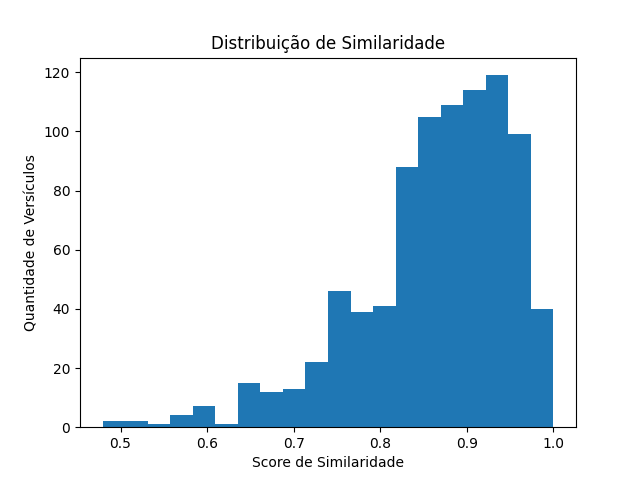
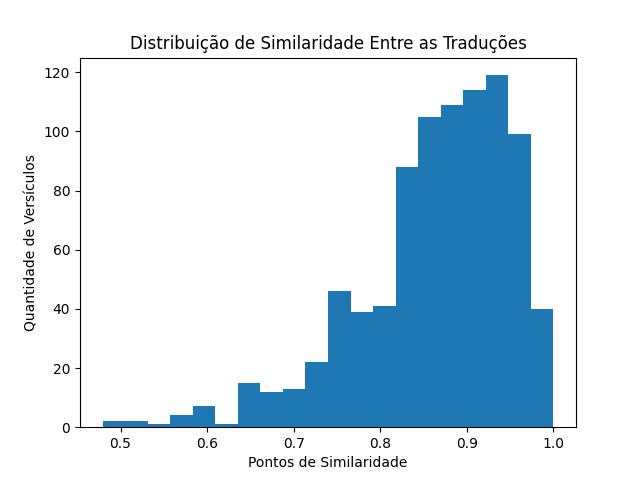
adicionei um gráfico de linhas que analisa a progressão da quantidade média de palavras por versículos em cada capítulo

Changed region(s): [[0.1875, 0.0625, 0.8125, 0.125], [0.375, 0.9375, 0.625, 1.0]]

diff --git a/funcoesGraficos.py b/funcoesGraficos.py
@@ -7,9 +7,54 @@ def criarHistograma(lista):
         sim.append(l["similaridade"])
 
     plt.hist(sim, bins=20)
-    plt.title("Distribuição de Similaridade")
-    plt.xlabel("Score de Similaridade")
+    plt.title("Distribuição de Similaridade Entre as Traduções")
+    plt.xlabel("Pontos de Similaridade")
     plt.ylabel("Quantidade de Versículos")
 
     plt.show()
     plt.savefig("histograma.png")
+
+    return plt
+
+def criarGrafLinhas(livro1, livro2):
+    def calcMediaCap(livro): 
+        medias = []
+        capAtual = livro[0]["capitulo"]
+        soma = 0
+        quantV = 0
+        for v in livro:
+            if capAtual == v["capitulo"]:
+                soma += v["quant_palavras"]
+                quantV += 1
+            else:
+                medias.append(soma / quantV)
+                capAtual = v["capitulo"]
+                soma = v["quant_palavras"] #reinicia pelo primeiro vers
+                quantV = 1
+
+        # adiciona último capítulo
+        medias.append(soma / quantV)
+        return medias
+
+    list1 = calcMediaCap(livro1)
+    list2 = calcMediaCap(livro2)    
+
+    plt.figure(figsize=(14,6))
+
+    lenCapitulos = range(1, len(list1) + 1) #pega a quantidade de capitulos pela tamanho do array
+
+    plt.plot(lenCapitulos, list1, label=livro1[0]["traducao"])
+    plt.plot(lenCapitulos, list2, label=livro2[0]["traducao"])
+
+    plt.xticks(lenCapitulos) #marca quais devem ser as marcações em no eixo x
+
+    plt.title("Quantidade Média de Palavras por Versiculo")
+    plt.xlabel("Capítulo")
+    plt.ylabel("Quantidade de Palavras")
+
+    plt.legend()
+
+    plt.show()
+    plt.savefig("linhas.png")
+
+    return plt

diff --git a/funcoes.py b/funcoes.py
@@ -69,10 +69,10 @@ def organizarLivro(livro, nomeTraducao):
 
     return livroLimpo
 
-def addTokens(livroLimpo):
+def addTokens(livro):
     nlp = spacy.load("pt_core_news_sm")
 
-    for v in livroLimpo:
+    for v in livro:
         doc = nlp(v['texto_limpo'])
 
         v.update({
@@ -133,3 +133,10 @@ def semelhancaTraduc(traduc1, traduc2):
             })
 
     return resultados
+
+def addQuantPalavr(livro):
+    for v in livro:
+        quant = len(v["tokens"])
+        v.update({
+            "quant_palavras": quant
+        })

diff --git a/main.py b/main.py
@@ -42,6 +42,9 @@ for v in livroArc:
 for v in livroNvt:
     tokensTotal.append(v["tokens"])
 
+fn.addQuantPalavr(livroArc)
+fn.addQuantPalavr(livroNvt)
+
 #%%----------------------------------
 #contagem de palavras
 print("Contando palavras...")
@@ -61,6 +64,12 @@ palavrSemelhante = fn.palavrSemelhantes(tokensTotal)
 #buscar nível de semelhança entre versiculos
 semelhanVers = fn.semelhancaTraduc(livroArc, livroNvt)
 
-histograma = fg.criarHistograma(semelhanVers)
+fg.criarHistograma(semelhanVers)
+
+#%%-------------------------------------
+#comparar quantidade média de palavras por versiculo no capítulo
+fg.criarGrafLinhas(livroArc, livroNvt)
+
+
 
 